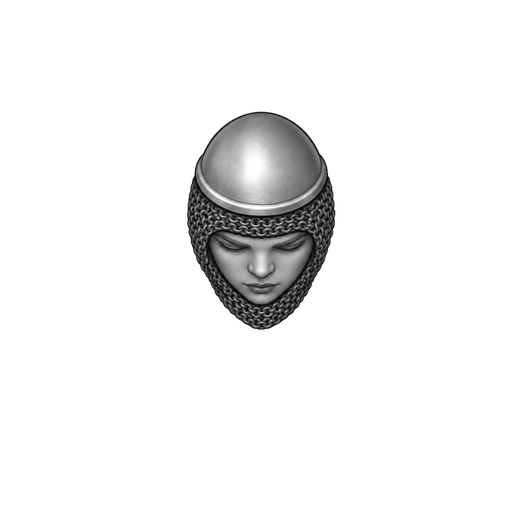
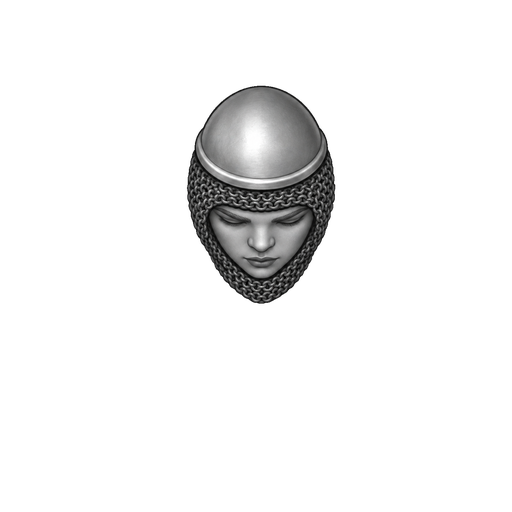
Kit personnages : serveuse (repos), tête de naine, têtes sans barbe posées plus haut
Claude-Session: https://claude.ai/code/session_01F13QTHtRPRAg87rG7j2jCn

Changed region(s): [[0.3438, 0.1562, 0.6562, 0.6562]]

diff --git a/kit-personnages/outils/heads.py b/kit-personnages/outils/heads.py
@@ -63,7 +63,7 @@ COIF_SHAVED=dict(src='../far/coif_shaved.png',s=0.38,nose=(628,703),seeds={     
  15:[(628,470),(500,480),(760,480),(455,600),(800,600),(628,540),(468,700),(788,700),(540,440),(720,440),(628,842),(590,828),(665,828),(560,520),(700,520),(628,563),(530,566),(725,566),(470,620),(788,620),(488,690),(770,690),(532,765),(725,765),(628,814)],
  1:[(628,592),(550,592),(710,592),(505,625),(760,620),(628,620),(560,665),(700,665),(520,665),(740,665),(628,700),(540,720),(720,720),(628,790),(628,760),(580,780),(680,780),(500,690),(760,690),(628,660)],
  2:[(530,612),(555,622),(578,632),(670,632),(695,620),(722,608)]})
-COIF_F=dict(src='../far/coif_f.png',s=0.38,nose=(628,655),seeds={                  # cervelière, visage féminin (le nez est volontairement décalé : c'est la calotte qu'on aligne)
+COIF_F=dict(src='../far/coif_f.png',s=0.38,nose=(628,723),seeds={                  # cervelière, visage féminin (le nez est volontairement décalé : c'est la calotte qu'on aligne)
  4:[(628,300),(560,300),(700,300),(628,250),(628,390),(500,380),(760,380),(628,425),(520,410),(740,410)],
  15:[(628,490),(540,480),(720,480),(460,520),(800,520),(470,600),(790,600),(500,660),(765,660),(560,710),(700,710),(628,740),(628,715),(450,460),(810,460)],
  1:[(630,560),(560,580),(700,580),(630,610),(630,680),(570,640),(690,640),(630,530),(540,555),(720,555),(600,690),(660,690),(630,585)],
@@ -74,6 +74,11 @@ TOQUE=dict(src='../far/toque.png',s=0.36,nose=(625,660),seeds={                 
  2:[(520,572),(570,580),(680,580),(730,572)],
  3:[(430,590),(820,590),(440,650),(810,650),(540,650),(710,650),(500,640),(750,640),(625,720),(520,720),(730,720),(560,770),(690,770),(625,790),(480,690),(770,690),(580,860),(670,860),(625,872)],
  4:[(625,815),(625,835),(625,899)]})
+NAINE=dict(src='../far/naine.png',s=0.27,nose=(628,945),seeds={                   # naine sans barbe : tresse en couronne (2), fichu (8). Le repère est volontairement sous le menton :
+ 8:[(628,420),(520,470),(740,470),(628,560),(560,400),(700,400),(628,360),(500,520),(760,520),(628,445),(540,500),(720,500)],          # la tête est posée plus haut que les têtes barbues, sinon elle a « la tête dans le cou »
+ 2:[(628,250),(420,330),(840,330),(360,480),(900,480),(400,600),(860,600),(520,640),(740,640),(628,640),(628,690),(520,690),(740,690),(450,690),(810,690),(410,700),(850,700),(420,740),(840,740),
+    (480,738),(530,755),(575,770),(680,770),(725,755),(775,738)],
+ 1:[(628,755),(560,735),(690,735),(500,800),(760,800),(628,820),(628,900),(560,870),(700,870),(378,680),(880,680),(455,790),(800,790),(520,785),(735,785),(628,790)]})
 if __name__=='__main__':
     import sys
     if len(sys.argv)>1 and sys.argv[1]=='helm':

diff --git a/kit-personnages/outils/srv.py b/kit-personnages/outils/srv.py
@@ -1,0 +1,23 @@
+# Serveuse (chemise à manches bouffantes, corsage lacé, jupe ample, petit tablier de taille noué sur le côté, torchon). Même carrure que le cuisinier.
+# Matières : 1 peau, 14 chemise, 49 corsage, 50 jupe, 35 tablier, 36 rubans (taille, nœuds), 37 torchon, 7 intérieur de l'encolure.
+import numpy as np
+from PIL import Image
+from scipy import ndimage as ndi
+from skimage.segmentation import watershed
+import brb,cui,full,kit,heads
+heads.G[15]=.78
+SEEDS={7:[(628,420),(628,300),(540,400),(720,400),(628,520)],
+ 14:[(628,585),(480,545),(780,545),(420,430),(840,430),(628,170),(450,280),(810,280),(230,400),(1030,400),(150,450),(1100,450),(200,520),(1060,520),(250,590),(1010,590),(170,610),(1090,610)],
+ 49:[(340,300),(920,300),(330,450),(930,450),(400,650),(860,650),(500,700),(760,700),(450,740),(800,740),(700,640),(560,640),(540,740),(720,740)],
+ 36:[(450,780),(700,790),(628,790),(760,790),(870,790),(830,850),(920,830),(860,950),(300,690),(950,690),(140,520),(1110,520),(130,585),(1120,585)],
+ 35:[(628,900),(550,1000),(720,1000),(628,1040),(500,880),(760,880)],
+ 37:[(330,760),(300,880),(350,950),(280,930),(380,1000),(400,820)],
+ 50:[(250,800),(1000,800),(230,900),(1020,900),(300,1050),(950,1050),(500,1130),(760,1130),(628,1150),(960,950)],
+ 1:[(110,700),(1150,700),(80,740),(1180,740),(140,830),(1110,830),(170,860),(1080,860),(150,660),(1110,660)]}
+def prep(src,tag,seeds=SEEDS,ref=None): return cui.prep(src,tag,seeds,ref)
+def char(P,shirt='#f0ece2',bodice='#7a2e2e',skirt='#3e4a5e',apron='#f4f1ea',ribbon='#c8a24a',towel='#f2eee4',sk='#c98f6a',hr='#8a4a22',shoes='#3a2a1c',ph=0,H=560,head='coif_f',hdy=0):
+    a,lab=P;full.G.update({1:.8,14:.85,49:.75,50:.72,35:.85,36:.8,37:.9,7:.6});c=Image.new('RGBA',(512,H));c.alpha_composite(brb._legs(skirt,shoes,ph),(0,brb.DY))
+    im=full.tint(a,lab,{1:sk,14:shirt,49:bodice,50:skirt,35:apron,36:ribbon,37:towel,7:'#2a2622'});w,h=im.size;t=im.resize((round(w*.29),round(h*.29)),Image.LANCZOS);o=Image.new('RGBA',(512,H));o.paste(t,(round(256-625*.29),round(229-360*.29)));c.alpha_composite(o)
+    if head:
+        hd=Image.new('RGBA',(512,H));hd.alpha_composite(kit.tint('head_dwarf_braided_90',{1:sk,2:hr,3:hr,6:'#3a2a1c'}) if head=='nain' else heads.tint(head,{1:sk,2:hr,3:hr,4:'#c4c8ce',15:'#6a6e76',8:'#f2eee4'}));c.alpha_composite(hd,(0,hdy)) if hdy>=0 else c.alpha_composite(hd.crop((0,-hdy,512,H)),(0,0))
+    return c

diff --git a/kit-personnages/LISEZMOI.md b/kit-personnages/LISEZMOI.md
@@ -92,3 +92,6 @@ Aucun corps à redemander à GPT : toutes les tenues, poses et marches du nain s
 - **Leçon : poser un objet SUR un autre (aliments sur assiette) ne pose aucun problème ; c'est passer un objet DANS une main qui demande un dessin d'un seul tenant.** L'assiette seule (pour les tables) ne s'extrait pas proprement de la pose (pouce et manche la cachent, elle est en biais) : la faire dessiner à part.
 - **Assiette seule (validée)** : `objets/item_plate.png`, parfaitement ronde et à plat, pour les tables ; `cui.plate(couleur, menu, taille)` y pose un menu. Aperçu `planches/assiette_menus.png`.
 - **Chopes (validées)** : `objets/item_mug_1..3.png` (pleines : anse à gauche, en haut, à droite) et `objets/item_mug_empty_1..3.png` (vides, mêmes anses, pour passer de l'une à l'autre quand le client a bu). `cui.mug(i)` / `cui.mug_empty(i)` : 39 mousse, 28 bois, 4 métal (rivets ; le cercle n'est pris qu'en partie, invisible à la taille des personnages). Aperçu `planches/chopes.png`.
+- **Serveuse (corps au repos validé)** (`nain/corps/serveuse/`, `outils/srv.py`) : chemise à manches bouffantes, corsage lacé, jupe ample, petit tablier de taille, ruban noué sur le côté, torchon. Même carrure que le cuisinier. Matières : 1 peau, 14 chemise, 49 corsage, 50 jupe, 35 tablier, 36 rubans, 37 torchon. Tenue non symétrique : pas de miroir. **Reste à faire : les deux pas de marche et le bras à l'assiette.** Aperçu `planches/serveuse.png`.
+- **Tête de naine (validée)** : `nain/tete/head_dwarf_female_braid_90.png` / `head_naine.png`, `heads.NAINE` : sans barbe, tresse en couronne (2), fichu (8), échelle 0,27.
+- **Règle : une tête sans barbe se pose PLUS HAUT qu'une tête barbue** (menton au bord de l'encolure), sinon elle a « la tête dans le cou ». Les têtes barbues sont calées sur le nez parce que la barbe descend sur le torse. Appliqué à la naine et à la cervelière féminine (`COIF_F`, remontée de 26 px).
